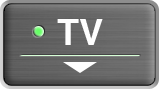
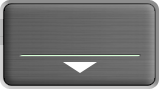
Fixed splash screen. Added toggling between CD and Projector devices.

Changed region(s): [[0.3522, 0.2022, 0.6541, 0.5169], [0.2013, 0.2697, 0.3019, 0.427], [0.0, 0.2022, 0.0252, 0.5169]]

diff --git a/src/main.css b/src/main.css
@@ -7,6 +7,7 @@ html, body, div {
 }
 div {
 	position: absolute;
+	background-repeat: no-repeat;
 }
 #splash-screen {
 	top: 0;
@@ -14,17 +15,7 @@ div {
 	width: 480px;
 	height: 762px;
 	background-image: url('splash_screen.png');
-	background-repeat: no-repeat;
 	z-index: 2;
-}
-#splash-screen-loading {
-	top: 280px;
-	left: 190px;
-	width: 100px;
-	height: 100px;
-	background-image: url('loading.gif');
-	background-repeat: no-repeat;
-	z-index: 3;
 }
 #main {
 	top: 0;
@@ -33,7 +24,6 @@ div {
 	height: 762px;
 	/* background-color: #000;*/
 	background-image: url('anymote_bg.png');
-	background-repeat: no-repeat;
 	/* margin-top: -38px; */
 }
 #on-off {
@@ -57,6 +47,10 @@ div {
 	height: 89px;
 	color: white;
 	background-image: url('device_button.png');
+	font-size: 35px;
+	font-family: sans-serif;
+	line-height: 70px;
+	text-align: center;
 }
 #channel-up {
 	left: 30px;

diff --git a/src/main.js b/src/main.js
@@ -51,7 +51,7 @@ var ir_codes = {
 		}
 	},
 	// Our second projector.
-	'ASK ProXima': {
+	'Projector': {
 		codes: {
 			volume_up:   0xE17210EF,
 			volume_down: 0xE17220DF
@@ -62,7 +62,7 @@ var ir_codes = {
 		}
 	},
 	// Our stereo.
-	'Yamaha RX-396RDS': {
+	'CD': {
 		codes: {
 			power_on_off: 0x5EA1F807,
 			volume_up:    0x5EA158A7,
@@ -209,10 +209,10 @@ $(function () {
 		if (button_id == "device") {
 			// Toggle device
 			var device = get_current_device();
-			if (device == 'ASK ProXima') {
-				set_current_device('Yamaha RX-396RDS');
+			if (device == 'Projector') {
+				set_current_device('CD');
 			} else {
-				set_current_device('ASK ProXima');
+				set_current_device('Projector');
 			}
 		} else {
 			var device = get_current_device();

diff --git a/src/main.html b/src/main.html
@@ -9,11 +9,11 @@
 		<script type="text/javascript" src="main.js"></script>
 	</head>
 	<body>
-		<div id="splash-screen"><div id="splash-screen-loading"></div></div>
+		<div id="splash-screen"></div>
 		<div id="main">
 			<div id="on-off"></div>
 			<div id="config"></div>
-			<div id="device">ASK ProXima</div>
+			<div id="device">CD</div>
 			<div id="channel-up"></div>
 			<div id="channel-down"></div>
 			<div id="volume-up"></div>
